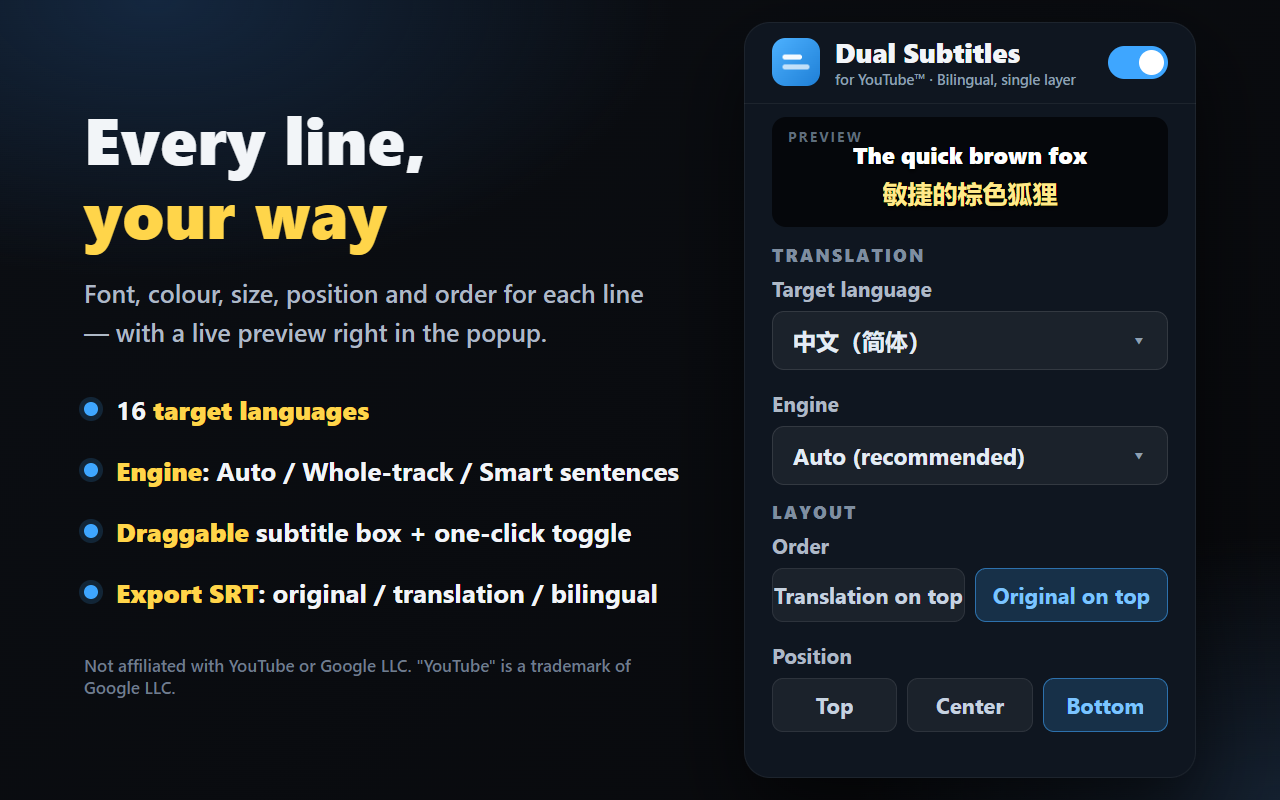
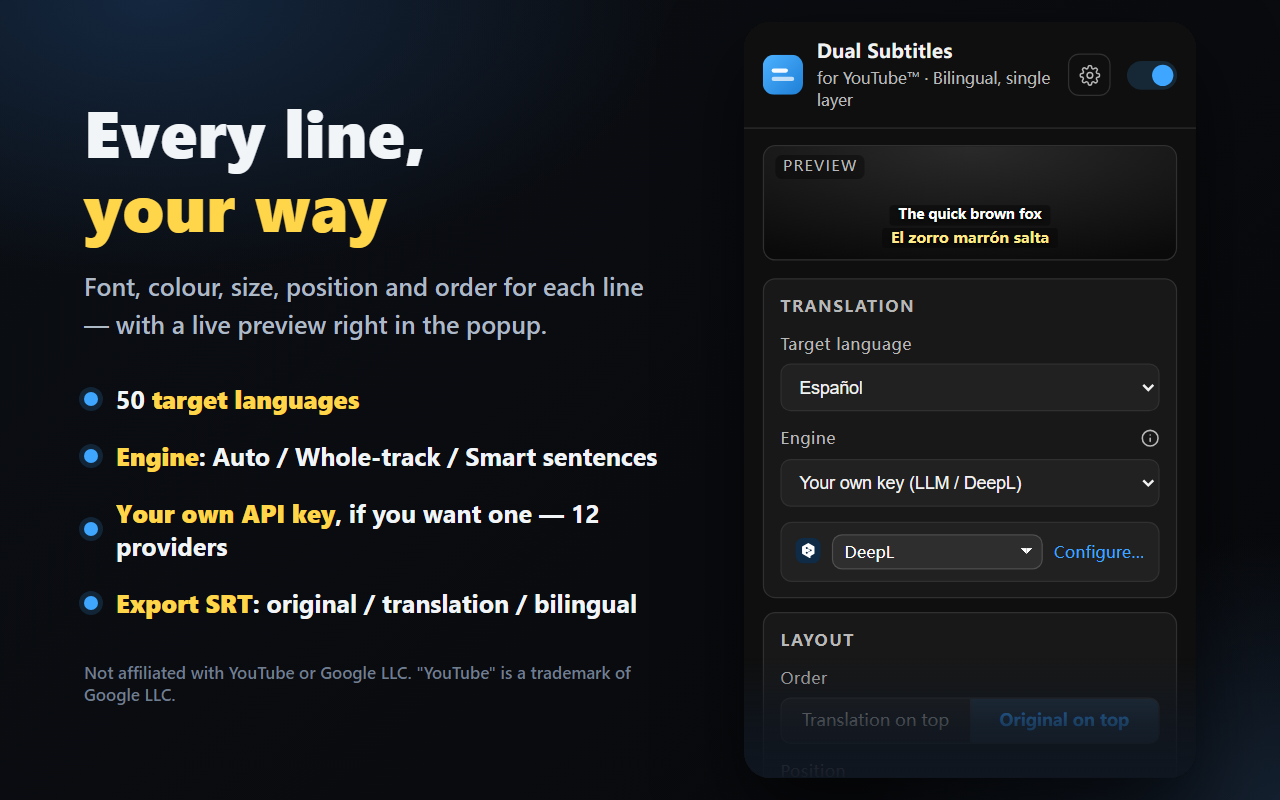
Shoot the settings screenshot from the real popup instead of a CSS mock
The panel beside the headline was drawn by hand in store-assets/src, so it
froze at the v3.3 UI and went on advertising 16 target languages long after
there were 50 — on this page and on the store listing. It is now an iframe of
the shipping popup.html, and the language count is read out of languages.js at
shoot time, so neither can drift again. The mock templates are deleted.

diff --git a/index.html b/index.html
@@ -519,7 +519,7 @@
         <div class="media-frame">
           <div class="glow" aria-hidden="true"></div>
           <div class="card-img">
-            <img class="ar-settings" src="assets/settings-en.png" data-src-en="assets/settings-en.png" data-src-zh="assets/settings-zh.png" width="1280" height="800" alt="The extension's settings popup showing the target language selector, the engine dropdown set to Auto, layout order, and subtitle position, next to a short feature list.">
+            <img class="ar-settings" src="assets/settings-en.png" data-src-en="assets/settings-en.png" data-src-zh="assets/settings-zh.png" width="1280" height="800" alt="The extension's settings popup showing the target language selector, the engine dropdown set to the user's own key with DeepL picked, and layout controls, next to a short feature list.">
           </div>
         </div>
       </div>
